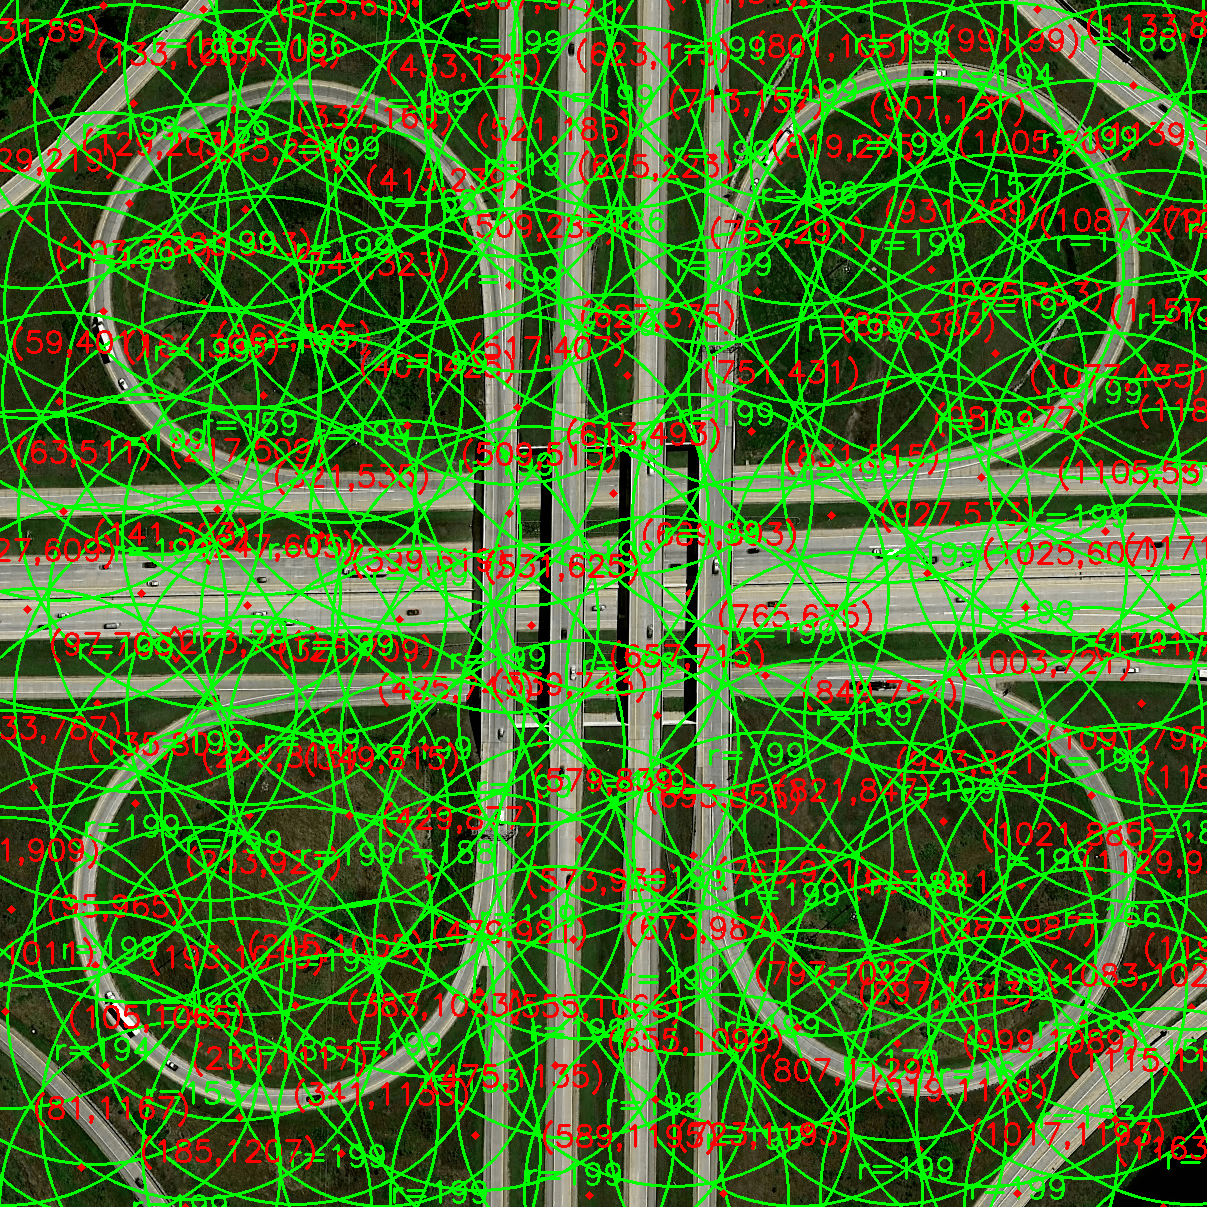
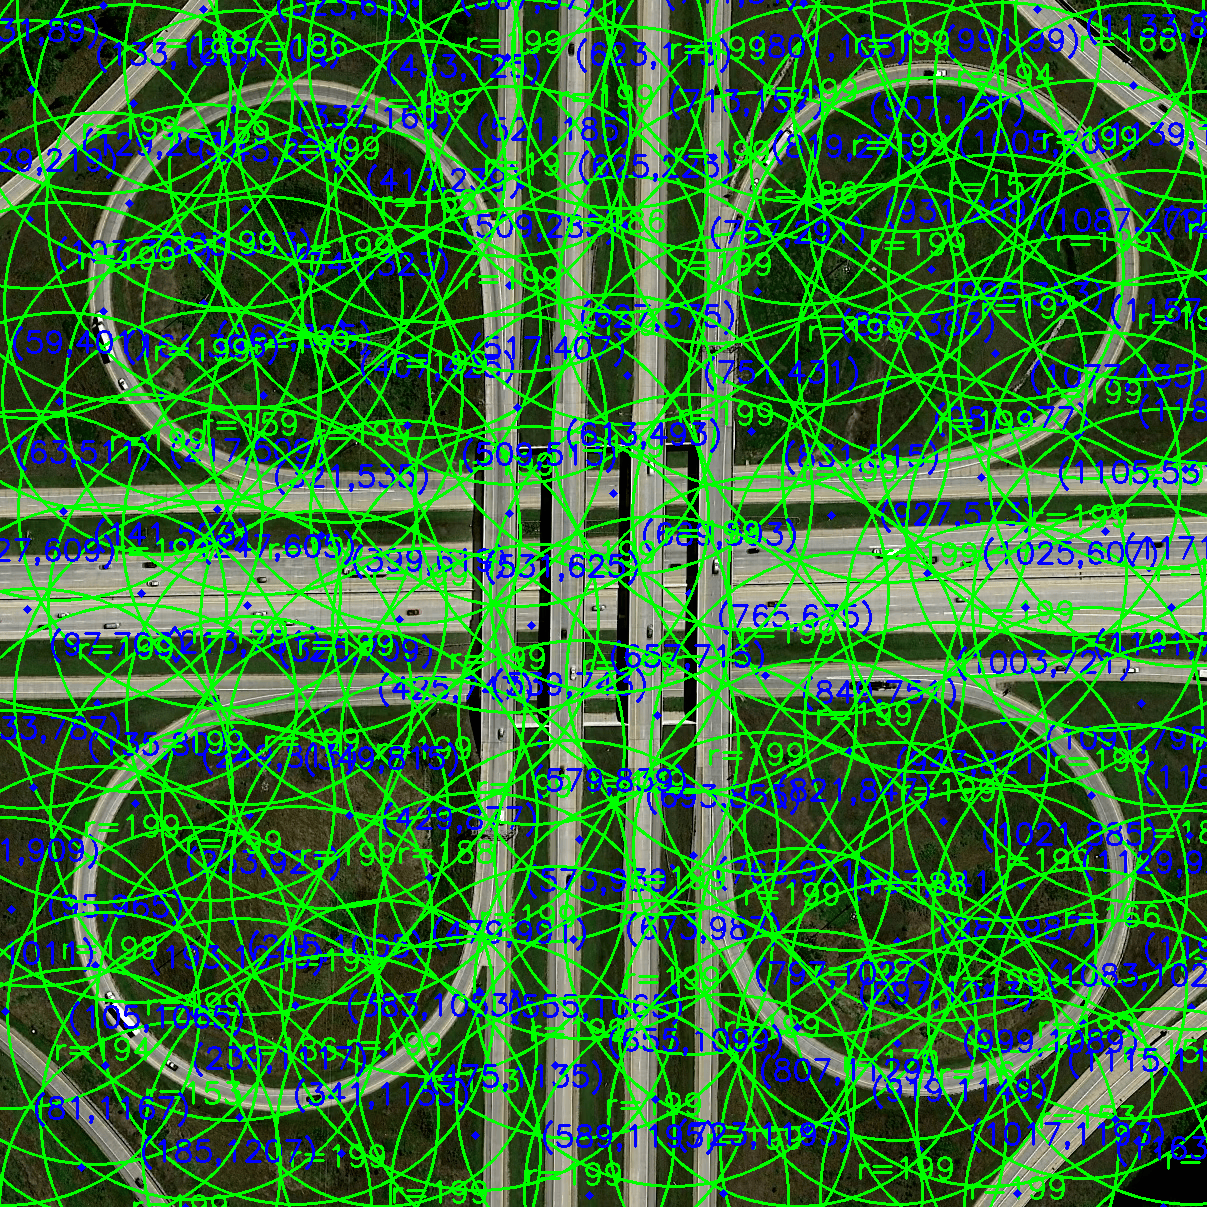
bug: remove excess conversion from rgb to bgr

diff --git a/Cloverleaf Bridge/src/detection.py b/Cloverleaf Bridge/src/detection.py
@@ -117,7 +117,6 @@ def mark_circles(img: np.ndarray, circles: Optional[np.ndarray]) -> np.ndarray:
         return img
 
     annotated = img.copy()
-    annotated = cv2.cvtColor(annotated, cv2.COLOR_RGB2BGR)
 
     OUTER_COLOUR, CENTER_COLOUR = (0, 255, 0), (0, 0, 255)
     circles = np.round(circles).astype("int")
@@ -149,5 +148,4 @@ def mark_circles(img: np.ndarray, circles: Optional[np.ndarray]) -> np.ndarray:
 
         logging.info(f"\tcircle at {center_text} with radius {rad}")
 
-    annotated = cv2.cvtColor(annotated, cv2.COLOR_BGR2RGB)
     return annotated

diff --git a/README.md b/README.md
@@ -17,7 +17,7 @@ Alternatively, install the dependencies by referring to those in `docs/env-hist.
 
 | Initial Image | Contour Borders | Marked Circles |
 | ------------- | --------------- | -------------- |
-| <img src="./Cloverleaf Bridge/data/cloverleaf_interchange.png" alt="initial cloverleaf interchange" width="300"> | <img src="./Cloverleaf Bridge/res/contour borders.png" alt="contour borders" width="300"> | <img src="./Cloverleaf Bridge/res/marked circles.png" alt="contour circles" width="300"> |
+| <img src="./Cloverleaf Bridge/data/cloverleaf_interchange.png" alt="initial cloverleaf interchange" width="300"> | <img src="./Cloverleaf Bridge/res/contour borders.png" alt="contour borders" width="300"> | <img src="./Cloverleaf Bridge/res/radii.png" alt="contour circles" width="300"> |
 
 #### Run 
 To see the images along with all intermediate pre-processing, run as follows: 
